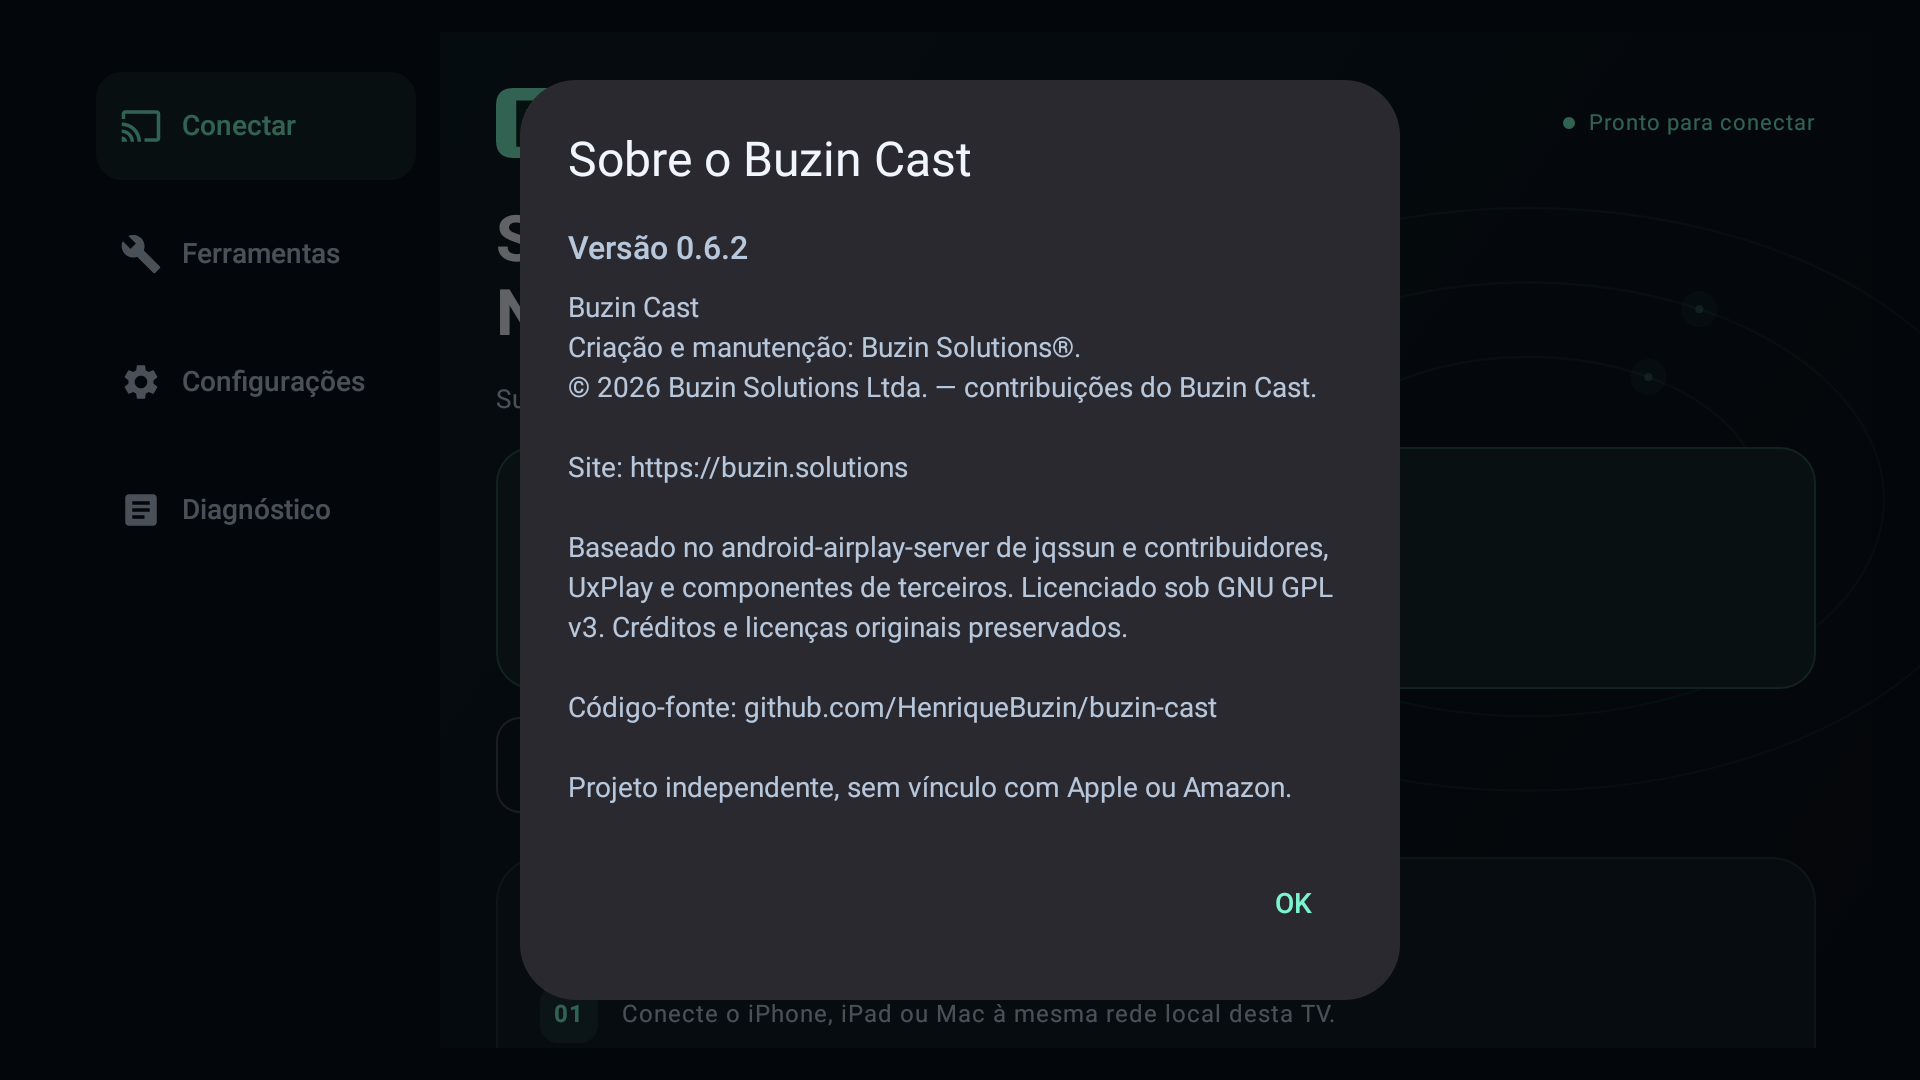
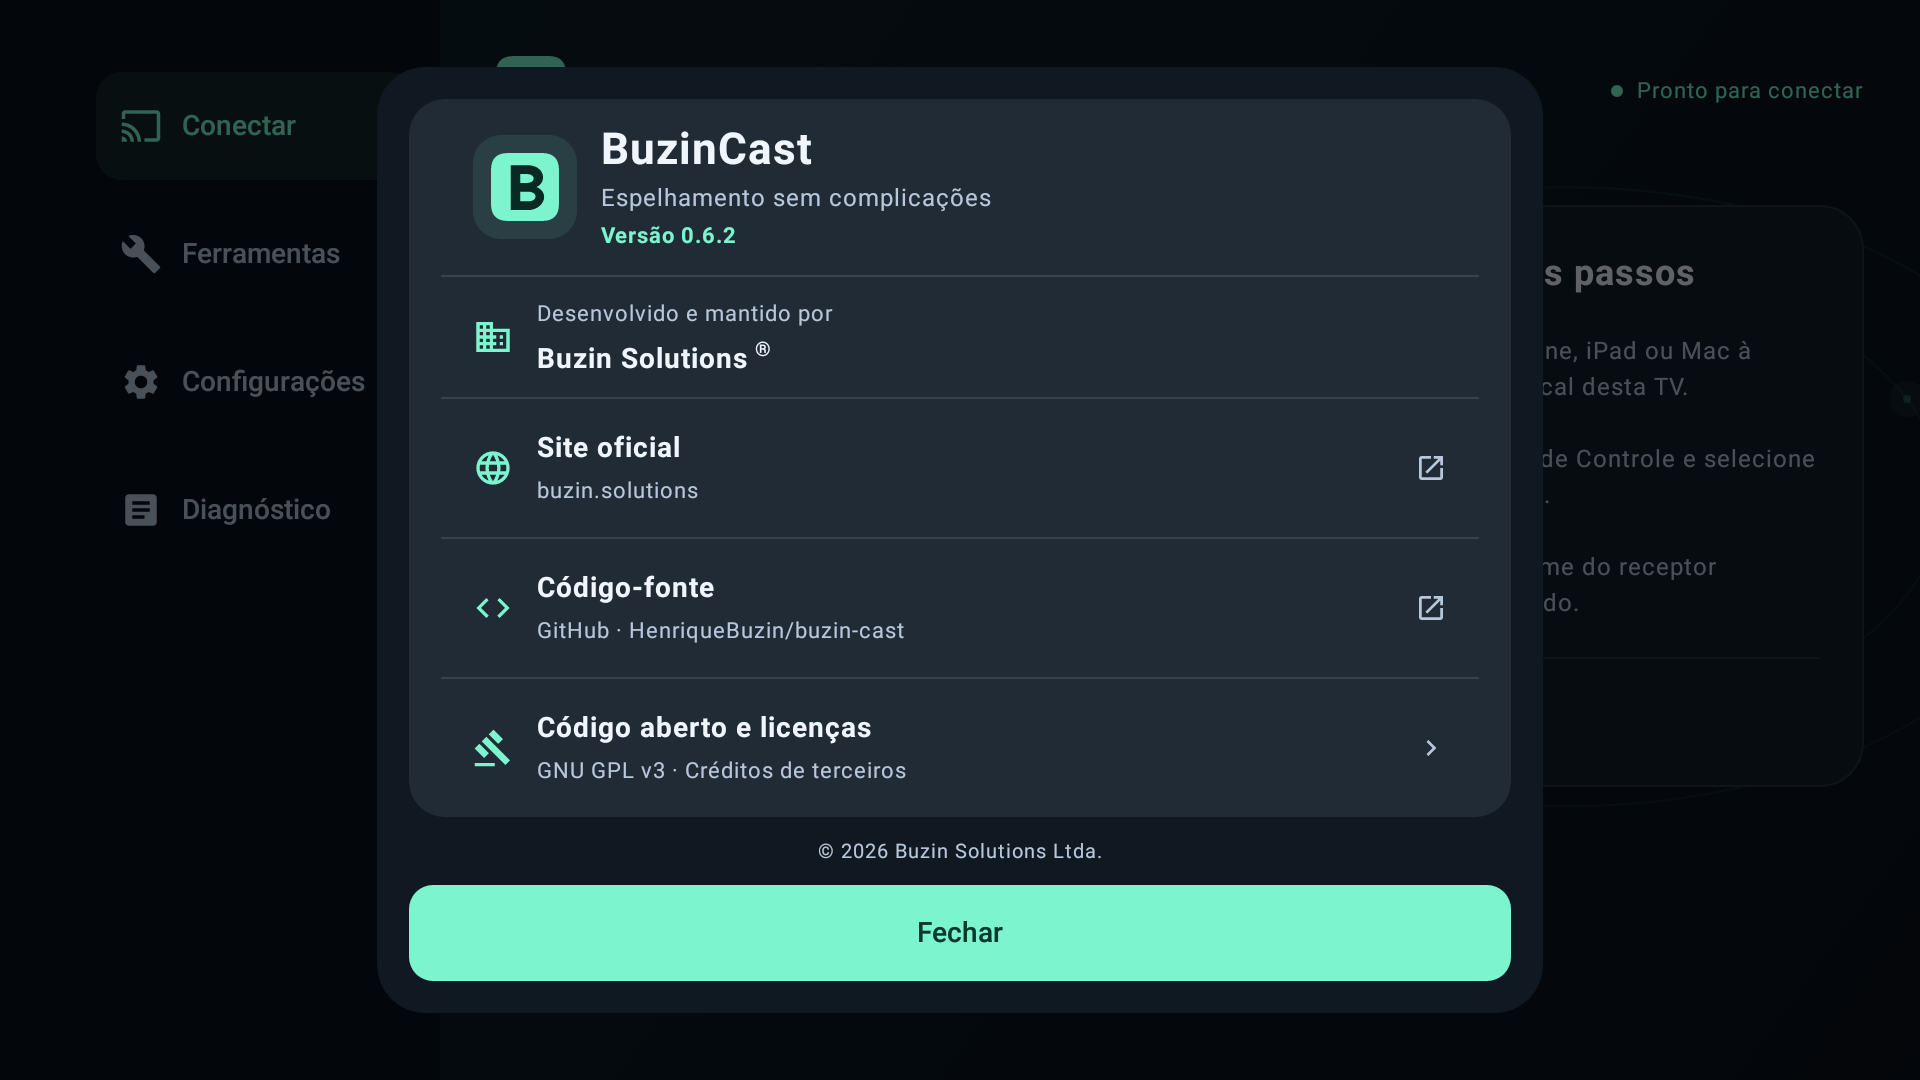
feat: compact BuzinCast artwork for Fire TV [skip ci]

Changed region(s): [[0.1875, 0.0306, 0.9375, 0.9472], [0.8125, 0.0611, 0.9688, 0.1222]]

diff --git a/docs/WORK_CHECKPOINT.md b/docs/WORK_CHECKPOINT.md
@@ -1,4 +1,55 @@
-# Retomada — 5 de novembro de 2026
+# Retomada — 6 de novembro de 2026
+
+## Tarefa futura registrada por Henrique — Alemanha e Áustria
+
+- [ ] Preparar edições específicas para esses dois países sem funções de
+  gravação, cópia, download ou armazenamento de vídeo/áudio. Considerar as
+  edições principal e compatível Fire OS; não basta ocultar os botões.
+  Revisar novamente a política e validar os binários antes da distribuição.
+  Henrique pediu expressamente guardar essa tarefa para outro momento;
+  não implementá-la nesta atualização de identidade visual.
+- Base: [FAQ oficial da Amazon, seção General](https://developer.amazon.com/docs/fire-tv/faq-general.html).
+  A regra consultada em 6 de novembro de 2026 exclui Alemanha e Áustria de
+  apps que permitem essas operações no Fire TV ou armazenamento conectado.
+  Na atualização 0.6.2, manter os dois países fora da distribuição.
+
+## Tarefa futura registrada por Henrique — DRM Amazon e gravações
+
+- [ ] Avaliar em conjunto a ideia de gravações e a integração de DRM da
+  Amazon Appstore. O console avisa que o APK atual usa um SDK sem a
+  integração de DRM; a preferência de DRM deve ficar desativada enquanto o
+  app não implementar esse suporte no código.
+- Não marcar DRM apenas para ocultar o aviso. Antes de qualquer alteração,
+  definir quais conteúdos serão protegidos, os requisitos de licença e o
+  impacto nas edições Fire OS principal/compatível e nos países restritos.
+
+## Atualização em andamento — 0.6.2
+
+- A Amazon confirmou 0.6.1 e 0.6.1-compat **Live**, com as três validações
+  aprovadas; o status foi conferido no console em 6 de novembro.
+- Henrique aprovou a mesma marca azul/verde do catálogo em todos os
+  ícones, preenchidos até as bordas, sem molduras ou cantos transparentes.
+  O padrão e as referências estão em `docs/BRAND.md`.
+- Também autorizou incluir nesta publicação o nome BuzinCast e o novo
+  Sobre, com site da empresa, fontes/licenças e espaçamento antes do ®.
+  Confirmou que o registro da marca Buzin Solutions já foi concedido.
+- Fontes candidatas atuais: `edf7484` mais o ajuste visual pendente de
+  confirmação no launcher. Principal código 26, compatível 25.
+  Rascunho Amazon: `amzn1.devportal.apprelease.854798fe28fb4208ae96ae44098c65e7`.
+  Descrições PT-BR/EN-US, gratuito, 92/5 modelos Fire TV, sem Vega,
+  tablets ou automotivos. Apenas Alemanha e Áustria excluídas da seleção.
+- CI: [42253171413](https://github.com/HenriqueBuzin/buzin-cast/actions/runs/42253171413)
+  concluiu com build e as 12 APIs de emulador aprovados. O retoque final da
+  arte é somente visual; será recompilado e conferido no quarto antes do envio.
+- Usar somente o Fire Stick do quarto (`<FIRE_TV_IP>:5555`) para esta
+  atualização. As outras duas TVs podem estar em uso e não devem ser
+  alteradas. Nenhum backup novo. O ícone novo apareceu após limpar apenas
+  o cache da Appstore e reiniciar, preservando seus dados. O launcher do
+  Fire OS 6 adiciona faixas a APKs instalados diretamente; o banner da
+  loja deve permanecer horizontal e preenchido por completo.
+- Ainda não submetido: concluir instalação/conferência dos APKs finais,
+  capturas do novo Sobre, substituição dos dois arquivos e galeria final,
+  verificar CI e então enviar à análise.
 
 ## Candidatas corrigidas 0.6.1 — estado atual
 
